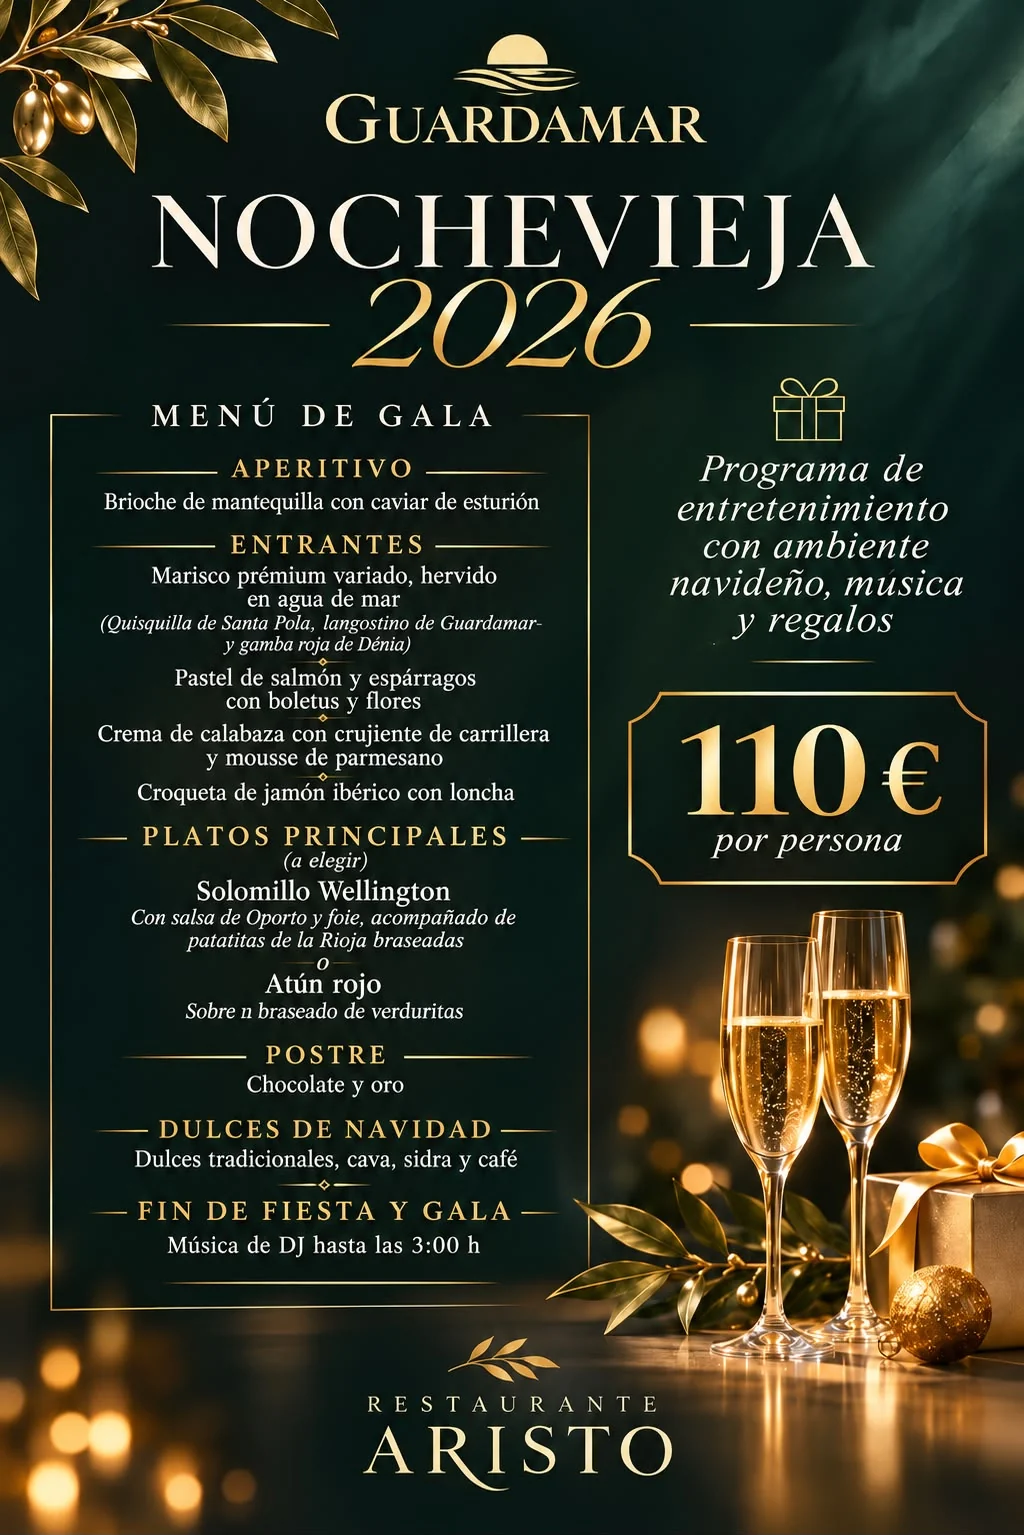
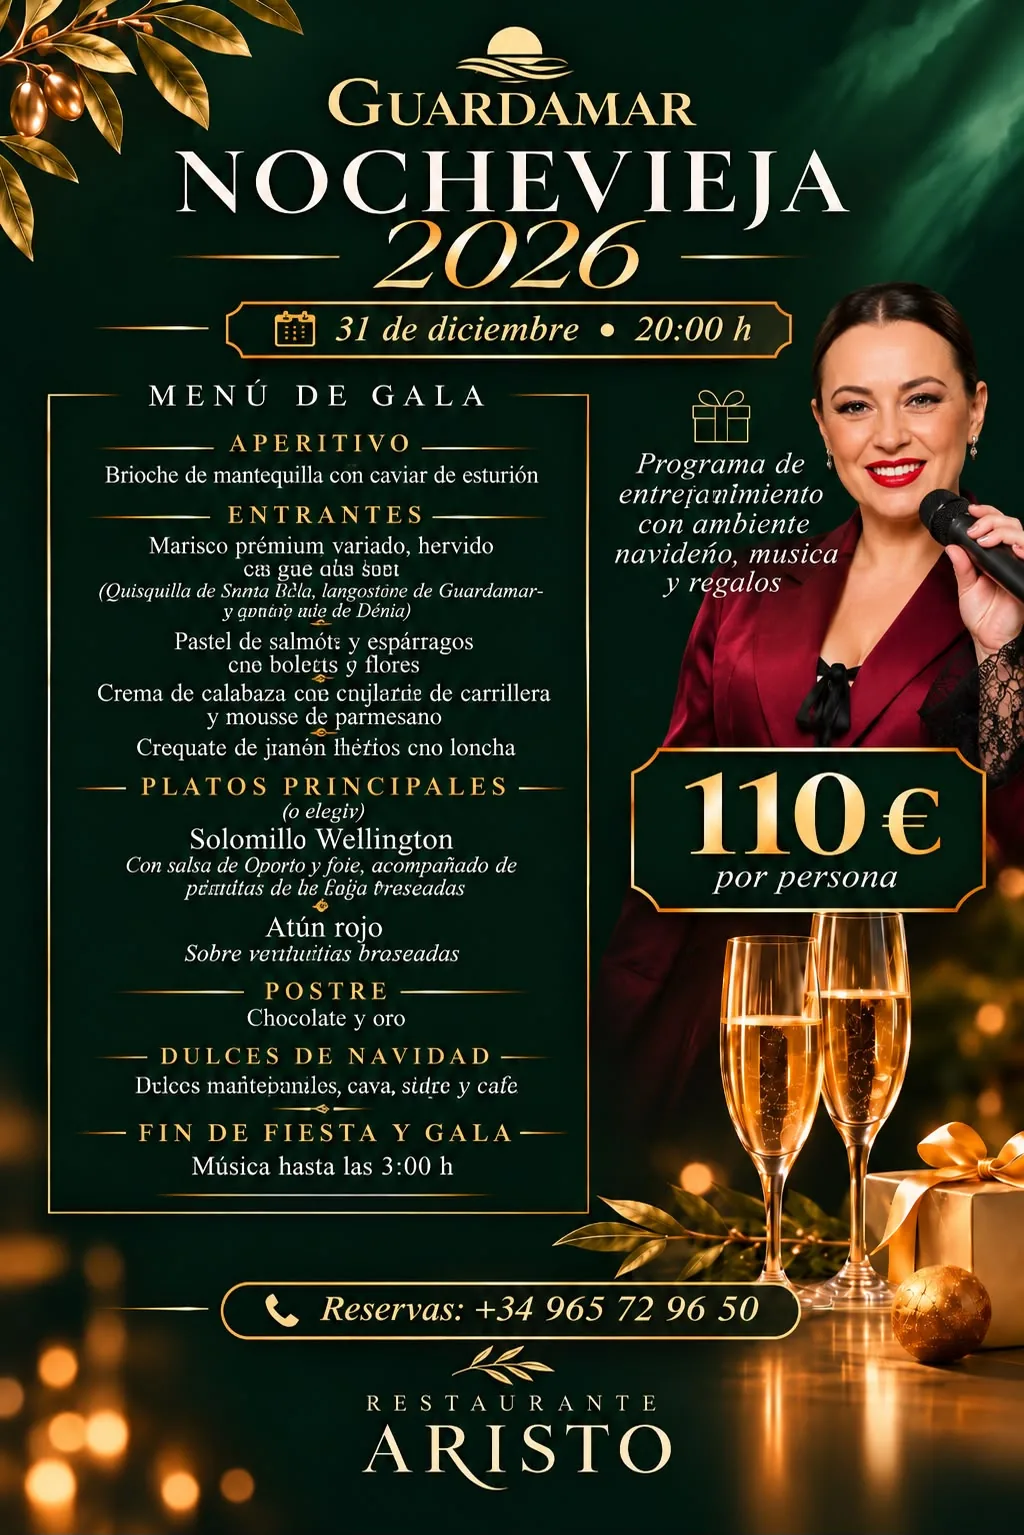
fix

diff --git a/site/src/components/NewYearEveInvitation.jsx b/site/src/components/NewYearEveInvitation.jsx
@@ -4,16 +4,84 @@ import { createPortal } from 'react-dom'
 import { Link } from 'react-router-dom'
 import { NOCHEVIEJA_RESERVATION } from '../config/site'
 import nocheviejaPoster from '../assets/nochevieja/nochevieja-2026-poster.webp'
+import navidadPoster from '../assets/nochevieja/navidad-2026-poster.webp'
+import anoNuevoPoster from '../assets/nochevieja/ano-nuevo-2027-poster.webp'
 import { useLanguage } from '../i18n/LanguageContext'
 
 const easeOut = [0.22, 1, 0.36, 1]
 
-/** Poster pixel size — keeps the frame hugging the image at every viewport. */
+/**
+ * Slide frame size — the tallest poster's ratio. Shorter posters (Año Nuevo is 3:4)
+ * sit centred inside it at their own ratio, so the Reserve button never jumps.
+ */
 const POSTER_W = 1024
 const POSTER_H = 1535
 
-/** Vertical space kept under the poster for the Reserve button (button + gap + breathing room). */
-const RESERVE_ROOM = '6rem'
+/** Vertical space kept under the poster for the dots + Reserve button (and breathing room). */
+const RESERVE_ROOM = '7.75rem'
+
+/** Swipe distance (px) or flick speed (px/s) that turns the slide. */
+const SWIPE_DISTANCE = 60
+const SWIPE_VELOCITY = 400
+
+/**
+ * Slides of the poster modal, left to right in date order. Each one drops out after
+ * `endsAt` (local time). `event` is what the reservation e-mail says the request is for.
+ */
+const SLIDES = [
+  {
+    key: 'navidad',
+    src: navidadPoster,
+    width: 1024,
+    height: 1534,
+    altKey: 'nochevieja.navidadAlt',
+    leadKey: 'nochevieja.formLeadNavidad',
+    event: 'Comida de Navidad · Restaurante Aristo · 25/12/2026',
+    subject: 'Reserva Comida de Navidad 2026',
+    endsAt: new Date(2026, 11, 26, 0, 0, 0),
+  },
+  {
+    key: 'nochevieja',
+    src: nocheviejaPoster,
+    width: 1024,
+    height: 1535,
+    altKey: 'nochevieja.alt',
+    leadKey: 'nochevieja.formLead',
+    event: 'Nochevieja 2026 · Restaurante Aristo · 31/12/2026',
+    subject: 'Reserva Nochevieja 2026',
+    endsAt: new Date(2027, 0, 1, 3, 0, 0),
+  },
+  {
+    key: 'ano-nuevo',
+    src: anoNuevoPoster,
+    width: 1024,
+    height: 1362,
+    altKey: 'nochevieja.anoNuevoAlt',
+    leadKey: 'nochevieja.formLeadAnoNuevo',
+    event: 'Comida de Año Nuevo · Restaurante Aristo · 01/01/2027',
+    subject: 'Reserva Comida de Año Nuevo 2027',
+    endsAt: new Date(2027, 0, 2, 0, 0, 0),
+  },
+]
+
+/** The badge and auto-open stop once the last event on the slides is over. */
+const EVENT_ENDS_AT = new Date(Math.max(...SLIDES.map((s) => s.endsAt.getTime())))
+
+const liveSlides = () => SLIDES.filter((s) => Date.now() < s.endsAt.getTime())
+
+function Chevron({ className, dir }) {
+  return (
+    <svg className={className} viewBox="0 0 24 24" fill="none" stroke="currentColor" strokeWidth="1.6" aria-hidden="true">
+      <path strokeLinecap="round" strokeLinejoin="round" d={dir === 'left' ? 'M15 18 9 12l6-6' : 'm9 18 6-6-6-6'} />
+    </svg>
+  )
+}
+
+const slideVariants = {
+  enter: (dir) => ({ opacity: 0, x: dir > 0 ? 80 : -80 }),
+  center: { opacity: 1, x: 0 },
+  exit: (dir) => ({ opacity: 0, x: dir > 0 ? -80 : 80 }),
+}
 
 /** Loose phone check: +, digits, spaces, dots, dashes, brackets — and 6–15 actual digits. */
 const PHONE_RE = /^\+?[\d\s().-]+$/
@@ -22,11 +90,12 @@ const isPhone = (v) => {
   return PHONE_RE.test(v) && digits >= 6 && digits <= 15
 }
 
-/** The badge and auto-open stop once the party is over (local time, 1 Jan 2027 03:00). */
-const EVENT_ENDS_AT = new Date(2027, 0, 1, 3, 0, 0)
-
-/** Open the poster by itself once per browser session, after the splash has cleared. */
+/**
+ * Open the poster by itself at most once per browser session, after the splash has cleared —
+ * and only in AUTO_OPEN_CHANCE of sessions (0.5 = every other visitor, 1 = always).
+ */
 const AUTO_OPEN = true
+const AUTO_OPEN_CHANCE = 0.5
 const AUTO_OPEN_DELAY_MS = 2600
 const AUTO_OPEN_SESSION_KEY = 'guardamar.nochevieja2026.seen'
 
@@ -38,10 +107,12 @@ function CloseIcon({ className }) {
   )
 }
 
-/** Warm the poster so the modal opens on an already-decoded image. */
+/** Warm the posters so the modal (and the next slide) open on already-decoded images. */
 function prefetchPoster() {
-  const img = new Image()
-  img.src = nocheviejaPoster
+  for (const s of SLIDES) {
+    const img = new Image()
+    img.src = s.src
+  }
 }
 
 /** Floating home-page badge that opens the Nochevieja 2026 menu poster. */
@@ -60,8 +131,14 @@ export default function NewYearEveInvitation() {
     if (!live || !AUTO_OPEN) return
     try {
       if (sessionStorage.getItem(AUTO_OPEN_SESSION_KEY)) return
+      // Roll once per session; a losing roll is remembered too, so the home page doesn't re-roll.
+      if (Math.random() >= AUTO_OPEN_CHANCE) {
+        sessionStorage.setItem(AUTO_OPEN_SESSION_KEY, 'skipped')
+        return
+      }
     } catch {
-      /* storage blocked — fall through and just open once */
+      /* storage blocked — just roll for this page view */
+      if (Math.random() >= AUTO_OPEN_CHANCE) return
     }
 
     let timer
@@ -120,24 +197,41 @@ function NewYearEvePosterModal({ open, onClose }) {
   const closeRef = useRef(null)
   const [portalRoot, setPortalRoot] = useState(null)
   const [view, setView] = useState('poster')
+  const [slides, setSlides] = useState(SLIDES)
+  // [index, direction] — direction tells the slide which side to enter from.
+  const [[index, dir], setSlide] = useState([0, 0])
+  const slide = slides[Math.min(index, slides.length - 1)]
+  const many = slides.length > 1
+
+  const go = useCallback(
+    (step) => setSlide(([i]) => [(i + step + slides.length) % slides.length, step]),
+    [slides.length],
+  )
 
   useEffect(() => {
     setPortalRoot(document.body)
   }, [])
 
-  // Every opening starts on the poster, not on last time's form.
+  // Every opening starts on the first poster, not on last time's form.
   useEffect(() => {
-    if (open) setView('poster')
+    if (!open) return
+    setView('poster')
+    // Open on the Nochevieja poster (Navidad sits to its left); once it is over, on the first live one.
+    const live = liveSlides()
+    setSlides(live)
+    setSlide([Math.max(0, live.findIndex((s) => s.key === 'nochevieja')), 0])
   }, [open])
 
   useEffect(() => {
     if (!open) return
     const onKey = (e) => {
       if (e.key === 'Escape') onClose()
+      else if (view === 'poster' && many && e.key === 'ArrowRight') go(1)
+      else if (view === 'poster' && many && e.key === 'ArrowLeft') go(-1)
     }
     window.addEventListener('keydown', onKey)
     return () => window.removeEventListener('keydown', onKey)
-  }, [open, onClose])
+  }, [open, onClose, view, many, go])
 
   useEffect(() => {
     if (!open) return
@@ -188,18 +282,85 @@ function NewYearEvePosterModal({ open, onClose }) {
                   transition={{ duration: 0.42, ease: easeOut }}
                   className="flex flex-col items-center gap-3"
                 >
-                  {/* The poster fills the height left over by the button; on narrow phones width is the limit. */}
-                  <img
-                    src={nocheviejaPoster}
-                    alt={t('nochevieja.alt')}
-                    width={POSTER_W}
-                    height={POSTER_H}
-                    decoding="async"
-                    style={{
-                      width: `min(calc(100vw - 2rem), calc((var(--app-vh, 1vh) * 100 - ${RESERVE_ROOM}) * ${POSTER_W} / ${POSTER_H}))`,
-                    }}
-                    className="pointer-events-auto h-auto object-contain shadow-[0_30px_90px_rgba(0,0,0,0.5)]"
-                  />
+                  <div className="relative flex items-center">
+                    {many && (
+                      <button
+                        type="button"
+                        onClick={() => go(-1)}
+                        aria-label={t('nochevieja.prev')}
+                        className="pointer-events-auto absolute -left-16 hidden h-12 w-12 items-center justify-center rounded-full border border-white/25 bg-[#0c1f1c]/45 text-white backdrop-blur-md transition-colors hover:bg-[#0c1f1c]/65 focus:outline-none focus-visible:ring-2 focus-visible:ring-white/60 md:flex"
+                      >
+                        <Chevron dir="left" className="h-5 w-5" />
+                      </button>
+                    )}
+
+                    {/* The poster fills the height left over by the button; on narrow phones width is the limit. */}
+                    <div
+                      className="relative overflow-hidden"
+                      style={{
+                        width: `min(calc(100vw - 2rem), calc((var(--app-vh, 1vh) * 100 - ${RESERVE_ROOM}) * ${POSTER_W} / ${POSTER_H}))`,
+                        aspectRatio: `${POSTER_W} / ${POSTER_H}`,
+                      }}
+                    >
+                      <AnimatePresence initial={false} custom={dir}>
+                        <motion.img
+                          key={slide.key}
+                          src={slide.src}
+                          alt={t(slide.altKey)}
+                          width={slide.width}
+                          height={slide.height}
+                          decoding="async"
+                          draggable={false}
+                          custom={dir}
+                          variants={slideVariants}
+                          initial="enter"
+                          animate="center"
+                          exit="exit"
+                          transition={{ duration: 0.35, ease: easeOut }}
+                          drag={many ? 'x' : false}
+                          dragConstraints={{ left: 0, right: 0 }}
+                          dragElastic={0.6}
+                          onDragEnd={(_, { offset, velocity }) => {
+                            if (offset.x < -SWIPE_DISTANCE || velocity.x < -SWIPE_VELOCITY) go(1)
+                            else if (offset.x > SWIPE_DISTANCE || velocity.x > SWIPE_VELOCITY) go(-1)
+                          }}
+                          style={{ touchAction: 'pan-y', aspectRatio: `${slide.width} / ${slide.height}` }}
+                          className={`pointer-events-auto absolute inset-0 m-auto h-auto max-h-full w-full select-none shadow-[0_30px_90px_rgba(0,0,0,0.5)] ${many ? 'cursor-grab active:cursor-grabbing' : ''}`}
+                        />
+                      </AnimatePresence>
+                    </div>
+
+                    {many && (
+                      <button
+                        type="button"
+                        onClick={() => go(1)}
+                        aria-label={t('nochevieja.next')}
+                        className="pointer-events-auto absolute -right-16 hidden h-12 w-12 items-center justify-center rounded-full border border-white/25 bg-[#0c1f1c]/45 text-white backdrop-blur-md transition-colors hover:bg-[#0c1f1c]/65 focus:outline-none focus-visible:ring-2 focus-visible:ring-white/60 md:flex"
+                      >
+                        <Chevron dir="right" className="h-5 w-5" />
+                      </button>
+                    )}
+                  </div>
+
+                  {many && (
+                    <div className="pointer-events-auto flex items-center gap-1">
+                      {slides.map((s, i) => (
+                        <button
+                          key={s.key}
+                          type="button"
+                          onClick={() => setSlide(([cur]) => [i, i > cur ? 1 : -1])}
+                          aria-label={`${i + 1} / ${slides.length}`}
+                          aria-current={s.key === slide.key ? 'true' : undefined}
+                          className="flex h-6 w-6 items-center justify-center focus:outline-none focus-visible:ring-2 focus-visible:ring-white/60"
+                        >
+                          <span
+                            className={`block h-2 rounded-full transition-all ${s.key === slide.key ? 'w-5 bg-[#e0b872]' : 'w-2 bg-white/45'}`}
+                          />
+                        </button>
+                      ))}
+                    </div>
+                  )}
+
                   <button
                     type="button"
                     onClick={() => setView('form')}
@@ -217,7 +378,7 @@ function NewYearEvePosterModal({ open, onClose }) {
                   transition={{ duration: 0.36, ease: easeOut }}
                   className="pointer-events-auto max-h-[calc(var(--app-vh,1vh)*100-2rem)] w-full max-w-[440px] overflow-y-auto border border-[#e0b872]/35 bg-[#0c2a24] px-6 py-8 text-white shadow-[0_30px_90px_rgba(0,0,0,0.5)] sm:px-9 sm:py-10"
                 >
-                  <ReservationForm onBack={() => setView('poster')} onDone={onClose} />
+                  <ReservationForm slide={slide} onBack={() => setView('poster')} onDone={onClose} />
                 </motion.div>
               )}
             </AnimatePresence>
@@ -244,7 +405,7 @@ const inputClass =
 const labelClass = 'font-sans text-[11px] font-medium uppercase tracking-[0.16em] text-white/65'
 
 /** Name + phone request, emailed to the hotel through FormSubmit (see NOCHEVIEJA_RESERVATION). */
-function ReservationForm({ onBack, onDone }) {
+function ReservationForm({ slide, onBack, onDone }) {
   const { t, locale } = useLanguage()
   const [name, setName] = useState('')
   const [phone, setPhone] = useState('')
@@ -282,12 +443,12 @@ function ReservationForm({ onBack, onDone }) {
         method: 'POST',
         headers: { 'Content-Type': 'application/json', Accept: 'application/json' },
         body: JSON.stringify({
-          _subject: `Reserva Nochevieja 2026 — ${cleanName}`,
+          _subject: `${slide.subject} — ${cleanName}`,
           _template: 'table',
           _cc: NOCHEVIEJA_RESERVATION.cc,
           Nombre: cleanName,
           Teléfono: cleanPhone,
-          Evento: 'Nochevieja 2026 · Restaurante Aristo · 31/12/2026',
+          Evento: slide.event,
           Idioma: locale === 'es' ? 'Español' : 'English',
         }),
       })
@@ -326,7 +487,7 @@ function ReservationForm({ onBack, onDone }) {
         ← {t('nochevieja.back')}
       </button>
       <h2 className="mt-5 font-cormorant text-[32px] font-normal leading-tight text-white">{t('nochevieja.formTitle')}</h2>
-      <p className="mt-3 font-sans text-[14px] font-light leading-relaxed text-white/70">{t('nochevieja.formLead')}</p>
+      <p className="mt-3 font-sans text-[14px] font-light leading-relaxed text-white/70">{t(slide.leadKey)}</p>
 
       <div className="mt-7 space-y-6">
         <div>

diff --git a/site/src/i18n/es.js b/site/src/i18n/es.js
@@ -125,11 +125,19 @@ export default {
     badgeAria: 'Cena de gala de Nochevieja 2026, 31 de diciembre — ver el menú',
     title: 'Nochevieja 2026 — Hotel Guardamar',
     alt:
-      'Menú de Nochevieja 2026 del Hotel Guardamar, 31 de diciembre. Aperitivo: brioche de mantequilla con caviar de esturión. Entrantes: marisco premium variado hervido en agua de mar (quisquilla de Santa Pola, langostino de Guardamar, gamba roja de Dénia); pastel de salmón y espárrago con boletus y flores; crema de calabaza con crujiente de carrillera y mousse de parmesano; croqueta de jamón ibérico con loncha. Platos principales a elegir: solomillo Wellington con salsa de Oporto y foie y patatitas Rioja braseadas, o atún rojo sobre braseado de verduritas. Postre: chocolate y oro. Dulces de Navidad: dulces tradicionales, cava, sidra y café. Fin de fiesta y gala con música DJ hasta las 3:00 am. Programa de entretenimiento con ambiente navideño, música y regalos. Precio: 110 € por persona. Restaurante Aristo.',
+      'Menú de Nochevieja 2026 del Hotel Guardamar, 31 de diciembre a las 20:00 h. Aperitivo: brioche de mantequilla con caviar de esturión. Entrantes: marisco premium variado hervido en agua de mar (quisquilla de Santa Pola, langostino de Guardamar, gamba roja de Dénia); pastel de salmón y espárrago con boletus y flores; crema de calabaza con crujiente de carrillera y mousse de parmesano; croqueta de jamón ibérico con loncha. Platos principales a elegir: solomillo Wellington con salsa de Oporto y foie y patatitas Rioja braseadas, o atún rojo sobre braseado de verduritas. Postre: chocolate y oro. Dulces de Navidad: dulces tradicionales, cava, sidra y café. Fin de fiesta y gala con música DJ hasta las 3:00 am. Programa de entretenimiento con ambiente navideño, música y regalos. Precio: 110 € por persona. Reservas: +34 965 72 96 50. Restaurante Aristo.',
+    navidadAlt:
+      'Menú de Navidad del Hotel Guardamar, Restaurante Aristo, 25 de diciembre, comida. Aperitivo: quisquilla de Santa Pola hervida en agua de mar. Entrantes: jamón ibérico y queso manchego D.O.; ensaladilla con tortitas canarias; caldo tradicional con pelota; gamba al ajillo sobre guacamole y chips vegetales con lima. Principal a elegir: arroz de marisco, pierna de cordero rellena, al horno, con salsa de ciruelas, o bacalao confitado sobre crema de ajo negro y salsa de piquillos ahumados. Postre: tiramisú navideño y dulces tradicionales de Navidad. Bebidas incluidas: cava, sidra y café. Precio por persona: 40 €.',
+    anoNuevoAlt:
+      'Menú de Año Nuevo 2027 del Hotel Guardamar, Restaurante Aristo, 1 de enero a las 14:00 h, comida. Aperitivos: jamón y queso; tosta de sardina ahumada y tapenade. Entrantes: tomate con salazones y ventresca; caldo tradicional con pelota; delicia de queso y dátil crujiente con confitura de tomate. Principales a elegir: arroz de atún, gambas y alcachofa; carrillera confitada; o salmón asado con flor de pistacho y verduritas. Postre: tarta de piña crumble y helado de coco. Dulces de Navidad, cava, sidra y café. Precio por persona: 40 €. Reservas: +34 965 72 96 50.',
+    prev: 'Anterior',
+    next: 'Siguiente',
     close: 'Cerrar',
     reserve: 'Reservar',
     formTitle: 'Reserve su mesa',
     formLead: 'Déjenos su nombre y teléfono y le llamaremos para confirmar su reserva de Nochevieja.',
+    formLeadNavidad: 'Déjenos su nombre y teléfono y le llamaremos para confirmar su reserva para la comida de Navidad.',
+    formLeadAnoNuevo: 'Déjenos su nombre y teléfono y le llamaremos para confirmar su reserva para la comida de Año Nuevo.',
     name: 'Nombre',
     phone: 'Teléfono',
     consent: 'Acepto el tratamiento de mis datos para gestionar esta solicitud, según la',

diff --git a/site/src/i18n/en.js b/site/src/i18n/en.js
@@ -125,11 +125,19 @@ export default {
     badgeAria: "New Year's Eve 2026 gala dinner, 31 December — view the menu",
     title: "New Year's Eve 2026 — Hotel Guardamar",
     alt:
-      "Hotel Guardamar New Year's Eve 2026 menu, 31 December. Aperitif: butter brioche with sturgeon caviar. Starters: premium seafood boiled in seawater (Santa Pola shrimp, Guardamar prawn, Dénia red prawn); salmon and asparagus terrine with boletus and flowers; pumpkin cream with crispy beef cheek and Parmesan mousse; Iberian ham croquette. Main course to choose: Beef Wellington with Port and foie sauce and braised Rioja potatoes, or bluefin tuna on braised baby vegetables. Dessert: chocolate and gold. Christmas sweets, cava, cider and coffee. After-party and gala with DJ music until 3:00 am. Entertainment programme with a festive atmosphere, music and gifts. Price: 110 € per person. Aristo Restaurant.",
+      "Hotel Guardamar New Year's Eve 2026 menu, 31 December at 20:00. Aperitif: butter brioche with sturgeon caviar. Starters: premium seafood boiled in seawater (Santa Pola shrimp, Guardamar prawn, Dénia red prawn); salmon and asparagus terrine with boletus and flowers; pumpkin cream with crispy beef cheek and Parmesan mousse; Iberian ham croquette. Main course to choose: Beef Wellington with Port and foie sauce and braised Rioja potatoes, or bluefin tuna on braised baby vegetables. Dessert: chocolate and gold. Christmas sweets, cava, cider and coffee. After-party and gala with DJ music until 3:00 am. Entertainment programme with a festive atmosphere, music and gifts. Price: 110 € per person. Reservations: +34 965 72 96 50. Aristo Restaurant.",
+    navidadAlt:
+      'Hotel Guardamar Christmas menu, Aristo Restaurant, 25 December, lunch. Aperitif: Santa Pola shrimp boiled in seawater. Starters: Iberian ham and Manchego D.O. cheese; Russian salad with Canarian flatbreads; traditional broth with meatball; garlic prawns on guacamole with vegetable chips and lime. Main course to choose: seafood rice, oven-roasted stuffed leg of lamb with plum sauce, or confit cod on black garlic cream with smoked piquillo pepper sauce. Dessert: Christmas tiramisu and traditional Christmas sweets. Drinks included: cava, cider and coffee. Price per person: 40 €.',
+    anoNuevoAlt:
+      "Hotel Guardamar New Year's Day 2027 menu, Aristo Restaurant, 1 January at 2:00 pm, lunch. Appetisers: ham and cheese; smoked sardine toast with tapenade. Starters: tomato with salted fish and tuna belly; traditional broth with meatball; crispy cheese and date bite with tomato jam. Main course to choose: tuna, prawn and artichoke rice; confit beef cheek; or roast salmon with pistachio and baby vegetables. Dessert: pineapple crumble tart with coconut ice cream. Christmas sweets, cava, cider and coffee. Price per person: 40 €. Reservations: +34 965 72 96 50.",
+    prev: 'Previous',
+    next: 'Next',
     close: 'Close',
     reserve: 'Reserve',
     formTitle: 'Reserve your table',
     formLead: 'Leave your name and phone number and we will call you to confirm your New Year’s Eve reservation.',
+    formLeadNavidad: 'Leave your name and phone number and we will call you to confirm your Christmas Day lunch reservation.',
+    formLeadAnoNuevo: "Leave your name and phone number and we will call you to confirm your New Year's Day lunch reservation.",
     name: 'Name',
     phone: 'Phone number',
     consent: 'I agree to the processing of my details to handle this request, as described in the',
